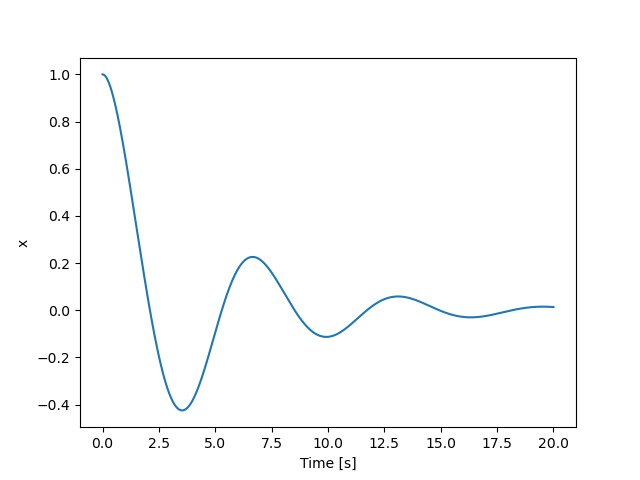
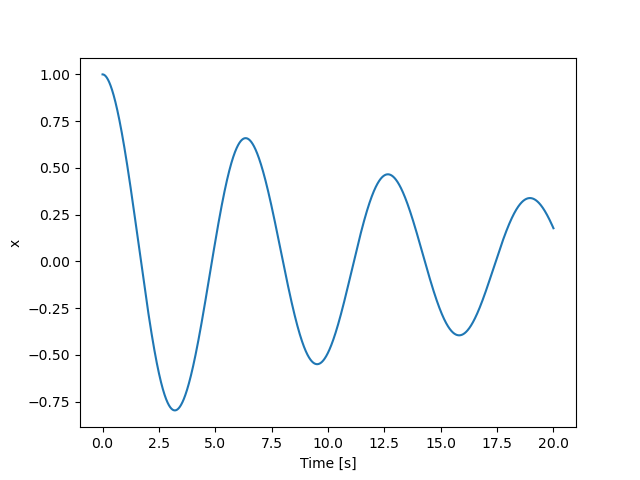
Added coeffs to taylor series

diff --git a/taylor/malachy_code.py b/taylor/malachy_code.py
@@ -32,7 +32,7 @@ def deriv(f,t): # return derivatives of the array f[x,dx/dt,theta,dtheta/dt]
     return [dxdt,d2xdt2]
 
 
-ncoef = 4
+ncoef = 7
 k = 1
 m = 1
 c = []
